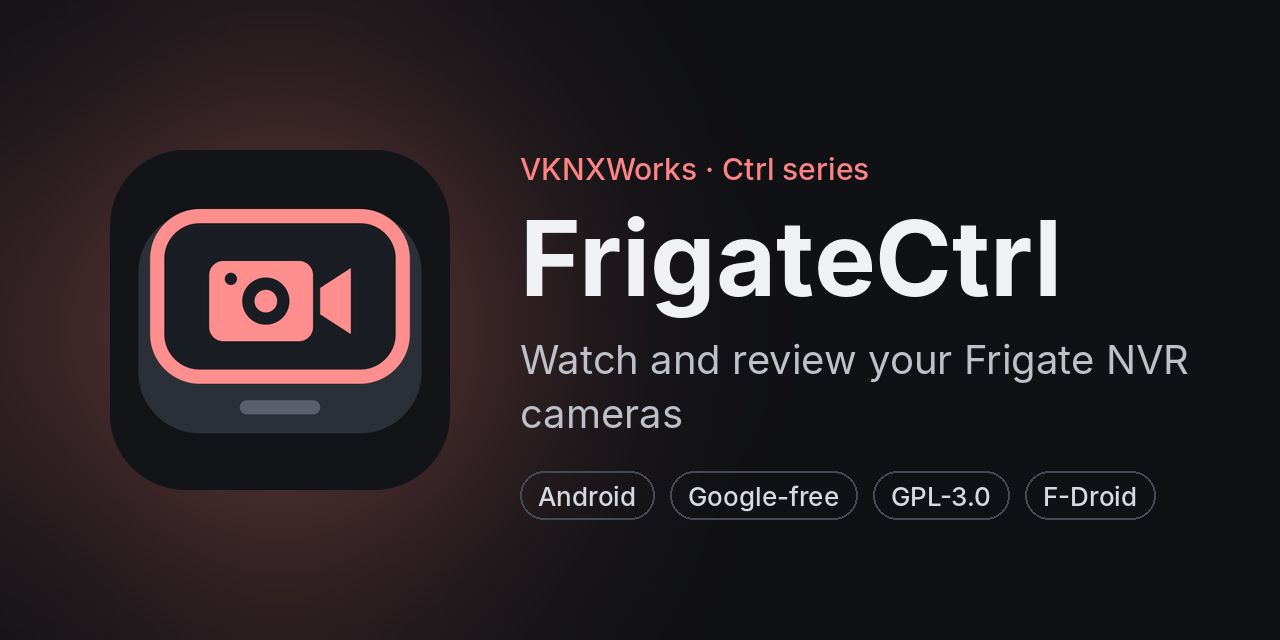
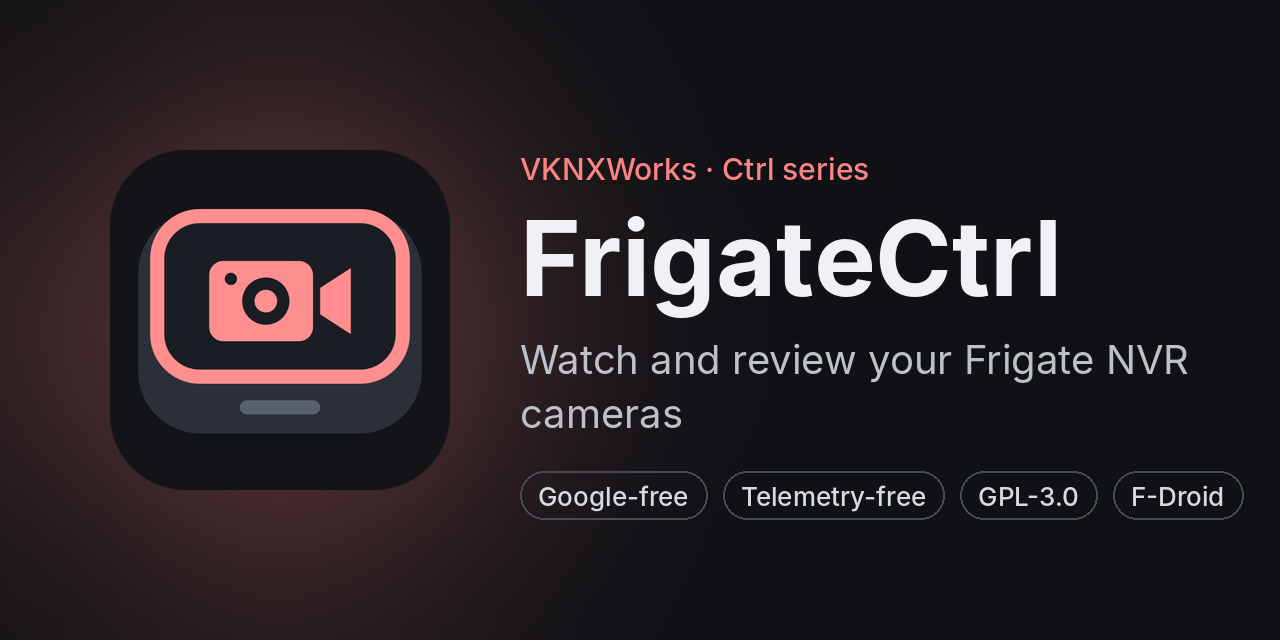
FrigateCtrl 3.2.11: remove the usage stats, telemetry-free
Claude-Session: https://claude.ai/code/session_01EwhEpZ1DKRJef9Cqeiv5g2

Changed region(s): [[0.4062, 0.7188, 0.9688, 0.8125]]

diff --git a/app/src/main/java/com/vknxworks/frigatectrl/MainActivity.kt b/app/src/main/java/com/vknxworks/frigatectrl/MainActivity.kt
@@ -60,7 +60,6 @@ import com.vknxworks.frigatectrl.ui.FrigateTheme
 import com.vknxworks.frigatectrl.ui.HealthScreen
 import com.vknxworks.frigatectrl.ui.SettingsScreen
 import com.vknxworks.frigatectrl.ui.SetupScreen
-import com.vknxworks.frigatectrl.ui.UsageStatsPrompt
 import com.vknxworks.frigatectrl.ui.ConnectionSecurityCheck
 import com.vknxworks.frigatectrl.ui.needsConnectionCheck
 import com.vknxworks.frigatectrl.ui.isAppInDarkTheme
@@ -70,8 +69,6 @@ class MainActivity : FragmentActivity() {
     override fun onCreate(savedInstanceState: Bundle?) {
         super.onCreate(savedInstanceState)
         App.init(this)
-        // Usage stats (only if the user opted in); not again on rotation or other configuration changes.
-        if (savedInstanceState == null) App.telemetry.appOpened()
         enableEdgeToEdge()
         // Never show a snapshot of the cameras in the recent-apps switcher.
         setRecentsScreenshotEnabled(false)
@@ -157,13 +154,6 @@ private fun Root(activity: FragmentActivity, lockVm: AppLockViewModel = viewMode
         return
     }
 
-    // Usage stats (only if the user opted in): the kind of screen, never which camera it shows.
-    // The camera screen reports its own Live / History views.
-    val screen = screenName(route, homeTab)
-    LaunchedEffect(screen) { if (screen != null) App.telemetry.track("screen_viewed", mapOf("screen" to screen)) }
-    // Asked once, only after a server is set up.
-    if (route != "setup" && route != "setup-edit" && App.prefs.isConfigured) UsageStatsPrompt()
-
     AnimatedContent(
         targetState = route,
         transitionSpec = {
@@ -204,16 +194,6 @@ private fun Root(activity: FragmentActivity, lockVm: AppLockViewModel = viewMode
             }
         }
     }
-}
-
-/** A fixed screen name for usage stats; null for "camera:<name>", which CameraScreen reports without the name. */
-private fun screenName(route: String, homeTab: Int): String? = when {
-    route == "setup" -> "Setup"
-    route == "setup-edit" -> "ServerSettings"
-    route == "cameras" -> if (homeTab == 0) "Cameras" else "Health"
-    route == "settings" -> "Settings"
-    route.startsWith("camera:") -> null
-    else -> "Other"
 }
 
 private fun depth(route: String): Int = when {

diff --git a/app/src/main/java/com/vknxworks/frigatectrl/data/Settings.kt b/app/src/main/java/com/vknxworks/frigatectrl/data/Settings.kt
@@ -12,6 +12,17 @@ enum class ThemeMode { System, Light, Dark }
 class Settings(context: Context) {
     private val sp = context.getSharedPreferences("frigate_settings", Context.MODE_PRIVATE)
 
+    init {
+        // FrigateCtrl 3.2.11 removed the optional anonymous statistics. Delete what they stored
+        // (the on/off switch and whether the question was answered) so nothing of them stays on the phone.
+        val leftover = sp.all.keys.filter { it.startsWith("usage") }
+        if (leftover.isNotEmpty()) {
+            val editor = sp.edit()
+            leftover.forEach { editor.remove(it) }
+            editor.apply()
+        }
+    }
+
     private fun bool(key: String, def: Boolean) = mutableStateOf(sp.getBoolean(key, def))
     private fun int(key: String, def: Int) = mutableIntStateOf(sp.getInt(key, def))
 
@@ -87,17 +98,4 @@ class Settings(context: Context) {
     var eventPreroll: Int
         get() = _preroll.intValue
         set(v) { _preroll.intValue = v; sp.edit().putInt("event_preroll", v).apply() }
-
-    // Usage stats
-    /** Opt-in anonymous usage stats (off until the user says yes). */
-    private val _usageStats = bool("usage_stats", false)
-    var usageStats: Boolean
-        get() = _usageStats.value
-        set(v) { _usageStats.value = v; sp.edit().putBoolean("usage_stats", v).apply() }
-
-    /** Whether the one-time usage stats question has been answered. */
-    private val _usageStatsAsked = bool("usage_stats_asked", false)
-    var usageStatsAsked: Boolean
-        get() = _usageStatsAsked.value
-        set(v) { _usageStatsAsked.value = v; sp.edit().putBoolean("usage_stats_asked", v).apply() }
 }

diff --git a/app/src/main/java/com/vknxworks/frigatectrl/ui/HistoryScreen.kt b/app/src/main/java/com/vknxworks/frigatectrl/ui/HistoryScreen.kt
@@ -182,13 +182,7 @@ fun HistoryScreen(camera: String, info: CameraInfo?, onBack: () -> Unit) {
         playback.seek(target, play)
     }
 
-    // Usage stats: only that the timeline was scrubbed (once per visit), never where or which camera.
-    var scrubTracked by remember(camera) { mutableStateOf(false) }
     val onScrubStart: () -> Unit = {
-        if (!scrubTracked) {
-            scrubTracked = true
-            App.telemetry.track("timeline_used", mapOf("action" to "scrub"))
-        }
         wasPlaying = playback.player.playWhenReady
         playback.pause()
     }
@@ -219,7 +213,6 @@ fun HistoryScreen(camera: String, info: CameraInfo?, onBack: () -> Unit) {
         val pre = settings.eventPreroll
         val r = if (next) reviews.firstOrNull { it.start - pre > c + 1 } else reviews.lastOrNull { it.start - pre < c - 2 }
         r?.let {
-            App.telemetry.track("event_played", mapOf("from" to "skip_button"))
             seekTo(it.start - pre, play = true)
         }
     }
@@ -392,8 +385,6 @@ fun HistoryScreen(camera: String, info: CameraInfo?, onBack: () -> Unit) {
                 onPick = { r ->
                     showEvents = false
                     if (!r.reviewed) markReviewed(listOf(r.id), true)
-                    // Usage stats: only where it was started from, never the event, its label or time.
-                    App.telemetry.track("event_played", mapOf("from" to "events_list"))
                     seekTo(r.start - settings.eventPreroll, play = true)
                 },
                 onReviewed = { r, v -> markReviewed(listOf(r.id), v) },

diff --git a/app/src/main/java/com/vknxworks/frigatectrl/ui/CameraScreen.kt b/app/src/main/java/com/vknxworks/frigatectrl/ui/CameraScreen.kt
@@ -113,12 +113,6 @@ fun CameraScreen(camera: String, onBack: () -> Unit) {
     var showHistory by rememberSaveable { mutableStateOf(false) }
     KeepScreenOn(App.settings.keepScreenOn)
 
-    // Usage stats: History is a screen inside the camera screen. Never the camera's name.
-    LaunchedEffect(showHistory) {
-        App.telemetry.track("screen_viewed", mapOf("screen" to if (showHistory) "History" else "Live"))
-        if (!showHistory) App.telemetry.track("live_view_opened")
-    }
-
     if (showHistory) {
         BackHandler { showHistory = false }
         HistoryScreen(camera, info, onBack = { showHistory = false })
@@ -176,15 +170,7 @@ private fun LiveScreen(
         socket.requestState()
         onDispose { socket.onMessage = null; socket.close() }
     }
-    // Usage stats: only that PTZ was used (once per visit), never the camera, command or preset.
-    var ptzTracked by remember(camera) { mutableStateOf(false) }
-    val send: (String) -> Unit = { cmd ->
-        if (!ptzTracked) {
-            ptzTracked = true
-            App.telemetry.track("ptz_used", mapOf("used" to "true"))
-        }
-        socket.send(camera, cmd)
-    }
+    val send: (String) -> Unit = { cmd -> socket.send(camera, cmd) }
 
     // Unreviewed alerts in the last 24 h, shown on the History button.
     var alerts by remember { mutableStateOf<Int?>(null) }

diff --git a/app/src/main/java/com/vknxworks/frigatectrl/ui/SettingsScreen.kt b/app/src/main/java/com/vknxworks/frigatectrl/ui/SettingsScreen.kt
@@ -27,7 +27,6 @@ import androidx.compose.material.icons.outlined.DarkMode
 import androidx.compose.material.icons.outlined.Dns
 import androidx.compose.material.icons.outlined.GridView
 import androidx.compose.material.icons.outlined.HighQuality
-import androidx.compose.material.icons.outlined.Insights
 import androidx.compose.material.icons.outlined.LightMode
 import androidx.compose.material.icons.outlined.Palette
 import androidx.compose.material.icons.outlined.Refresh
@@ -240,15 +239,6 @@ fun SettingsScreen(onBack: () -> Unit, onServer: () -> Unit, onLogout: () -> Uni
                 Divider()
                 Toggle(Icons.Outlined.Vibration, "Haptic ticks", "Feel each time mark while scrubbing", s.timelineHaptics) {
                     s.timelineHaptics = it
-                }
-            }
-
-            if (App.telemetry.available) {
-                Section("Usage stats", footer = USAGE_STATS_DESCRIPTION) {
-                    Toggle(
-                        Icons.Outlined.Insights, "Share anonymous usage stats",
-                        "Helps decide what to improve next", s.usageStats,
-                    ) { App.telemetry.setOptIn(it) }
                 }
             }
 

diff --git a/app/src/main/java/com/vknxworks/frigatectrl/App.kt b/app/src/main/java/com/vknxworks/frigatectrl/App.kt
@@ -5,7 +5,6 @@ import com.vknxworks.frigatectrl.data.FrigateApi
 import com.vknxworks.frigatectrl.data.LockSettings
 import com.vknxworks.frigatectrl.data.Prefs
 import com.vknxworks.frigatectrl.data.Settings
-import com.vknxworks.frigatectrl.data.Telemetry
 
 /** Tiny service locator. */
 object App {
@@ -17,8 +16,6 @@ object App {
         private set
     lateinit var lock: LockSettings
         private set
-    lateinit var telemetry: Telemetry
-        private set
 
     fun init(ctx: Context) {
         if (::prefs.isInitialized) return
@@ -26,6 +23,5 @@ object App {
         api = FrigateApi(prefs)
         settings = Settings(ctx.applicationContext)
         lock = LockSettings(ctx.applicationContext)
-        telemetry = Telemetry(ctx.applicationContext, settings)
     }
 }

diff --git a/README.md b/README.md
@@ -2,7 +2,7 @@
 
 **Watch and review your Frigate cameras from your phone.**
 
-[![Latest release](https://img.shields.io/github/v/release/VoidedKN0X/FrigateCtrl?label=download)](https://github.com/VoidedKN0X/FrigateCtrl/releases/latest) ![Android 13+](https://img.shields.io/badge/Android-13%2B-3DDC84?logo=android&logoColor=white) [![License: GPL-3.0](https://img.shields.io/badge/license-GPL--3.0-blue)](LICENSE) [![Sponsor](https://img.shields.io/badge/sponsor-GitHub-ea4aaa?logo=githubsponsors&logoColor=white)](https://github.com/sponsors/VoidedKN0X)
+[![Latest release](https://img.shields.io/github/v/release/VoidedKN0X/FrigateCtrl?label=download)](https://github.com/VoidedKN0X/FrigateCtrl/releases/latest) ![Android 13+](https://img.shields.io/badge/Android-13%2B-3DDC84?logo=android&logoColor=white) [![License: GPL-3.0](https://img.shields.io/badge/license-GPL--3.0-blue)](LICENSE) ![Telemetry-free](https://img.shields.io/badge/telemetry-none-brightgreen) [![Sponsor](https://img.shields.io/badge/sponsor-GitHub-ea4aaa?logo=githubsponsors&logoColor=white)](https://github.com/sponsors/VoidedKN0X)
 
 FrigateCtrl is an Android app for [Frigate NVR](https://frigate.video). Watch your cameras live, scrub through recordings on a precise timeline, and control PTZ cameras.
 
@@ -67,17 +67,14 @@ If the Obtainium button doesn't open the app, add `https://github.com/VoidedKN0X
 - **Talk button missing:** it only shows when the camera has a speaker, and go2rtc's WebRTC port (8555) must be reachable from your phone.
 - **Talk connects at home but not away from it:** talk only uses the STUN/TURN servers listed under `go2rtc: webrtc: ice_servers:` in your Frigate config; the app never contacts a public STUN server on its own. Add one there (your own, or a public one if you're happy for it to see your IP address).
 
-## Usage stats
+## Privacy
 
-FrigateCtrl can share anonymous usage stats, **only if you say yes**. It asks once after you connect to your server, and you can change it any time in **Settings > Usage stats**.
+**Telemetry-free.** FrigateCtrl has no analytics, crash reporting, usage stats or tracking of any kind. It only talks to the servers you add.
 
-- **Shared:** which screens you open (the kind of screen, such as Cameras, Live or History, never which camera), whether you use live view, the history timeline, PTZ controls and event playback, the app version, Android version, phone model, language, phone or tablet, and whether you prefer the sub stream.
-- **Never shared:** your server address, username or passwords, camera names, zones, what was detected, event IDs, recording times or footage, or any ID that stays the same between sessions.
-- **Where:** VKNXWorks' own self-hosted [Aptabase](https://aptabase.com) server. Nothing goes to Google or analytics companies. Like any website, the server sees your IP address; Aptabase uses it only to work out the country and doesn't store it.
-
-Builds from source don't include the stats key, so they can't send anything and the setting is hidden. The code is in [`Telemetry.kt`](app/src/main/java/com/vknxworks/frigatectrl/data/Telemetry.kt).
-
-Apart from these opt-in stats, FrigateCtrl only talks to your own Frigate server (and, for two-way talk, the STUN/TURN servers from your go2rtc config).
+- **Servers it talks to:** your own Frigate server, and, for two-way talk, only the STUN/TURN servers listed in your go2rtc config. It never contacts a public STUN server on its own.
+- **Google-free:** no Google Play services, Firebase or other Google libraries that contact Google (see [Requirements](#requirements)).
+- **Links:** the Support, Report a bug, Source code and Licence rows in Settings open GitHub or gnu.org in your browser, only when you tap them.
+- Cameras are hidden from screenshots, screen recordings and the recent-apps preview by default, and your login is stored encrypted on your phone.
 
 ## Build from source
 

diff --git a/CHANGELOG.md b/CHANGELOG.md
@@ -4,10 +4,17 @@ What changed in each FrigateCtrl version. Every release on the [Releases page](h
 
 To publish a new version: bump `versionCode` and `versionName` in `app/build.gradle.kts`, add a section here, and push to `main`. Pushes without a version bump only build; they don't make a release.
 
-## Unreleased
+## 3.2.11 (2026-10-20)
+
+FrigateCtrl is now telemetry-free.
+
+### Privacy
+
+- **No more usage stats: FrigateCtrl is now telemetry-free.** The optional anonymous usage stats are gone completely, along with the Usage stats setting and the one-time question. The app no longer contacts VKNXWorks' stats server at all, and the settings it used are deleted from your phone when you update. FrigateCtrl has no analytics, crash reporting or tracking of any kind: it only talks to your own Frigate server (and, for two-way talk, the STUN/TURN servers from your go2rtc config).
 
 ### Changed
 
+- **README**: a new Privacy section and a "Telemetry-free" badge replace the old Usage stats section
 - **README**: a Screenshots section (screenshots are coming soon), and a link preview image (`.github/assets/social-preview.png`) with FrigateCtrl's icon, name and summary, for when the repo is shared on Reddit, Discord or elsewhere
 
 ## 3.2.10 (2026-10-19)
